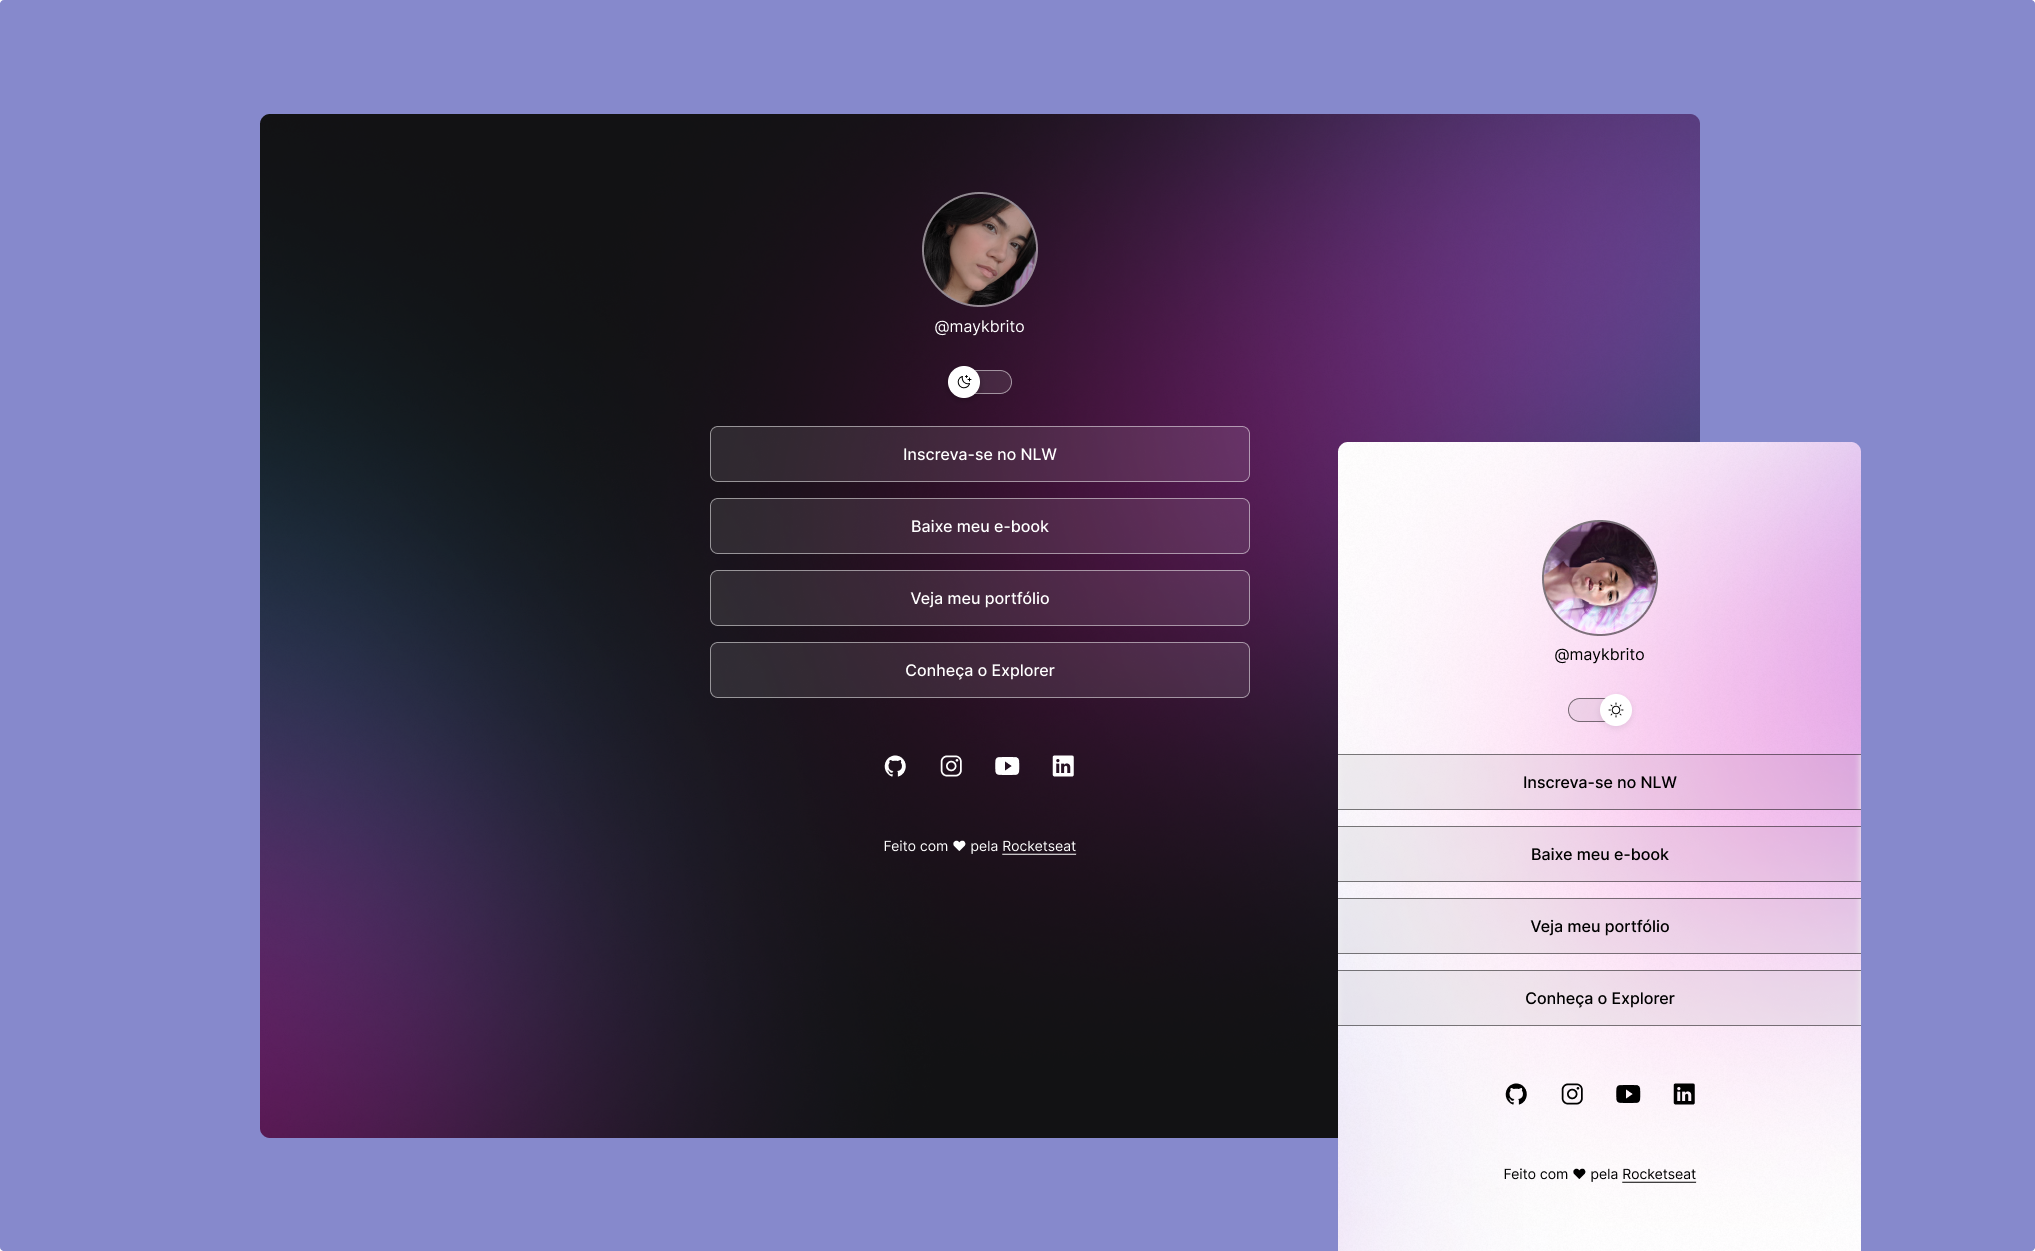
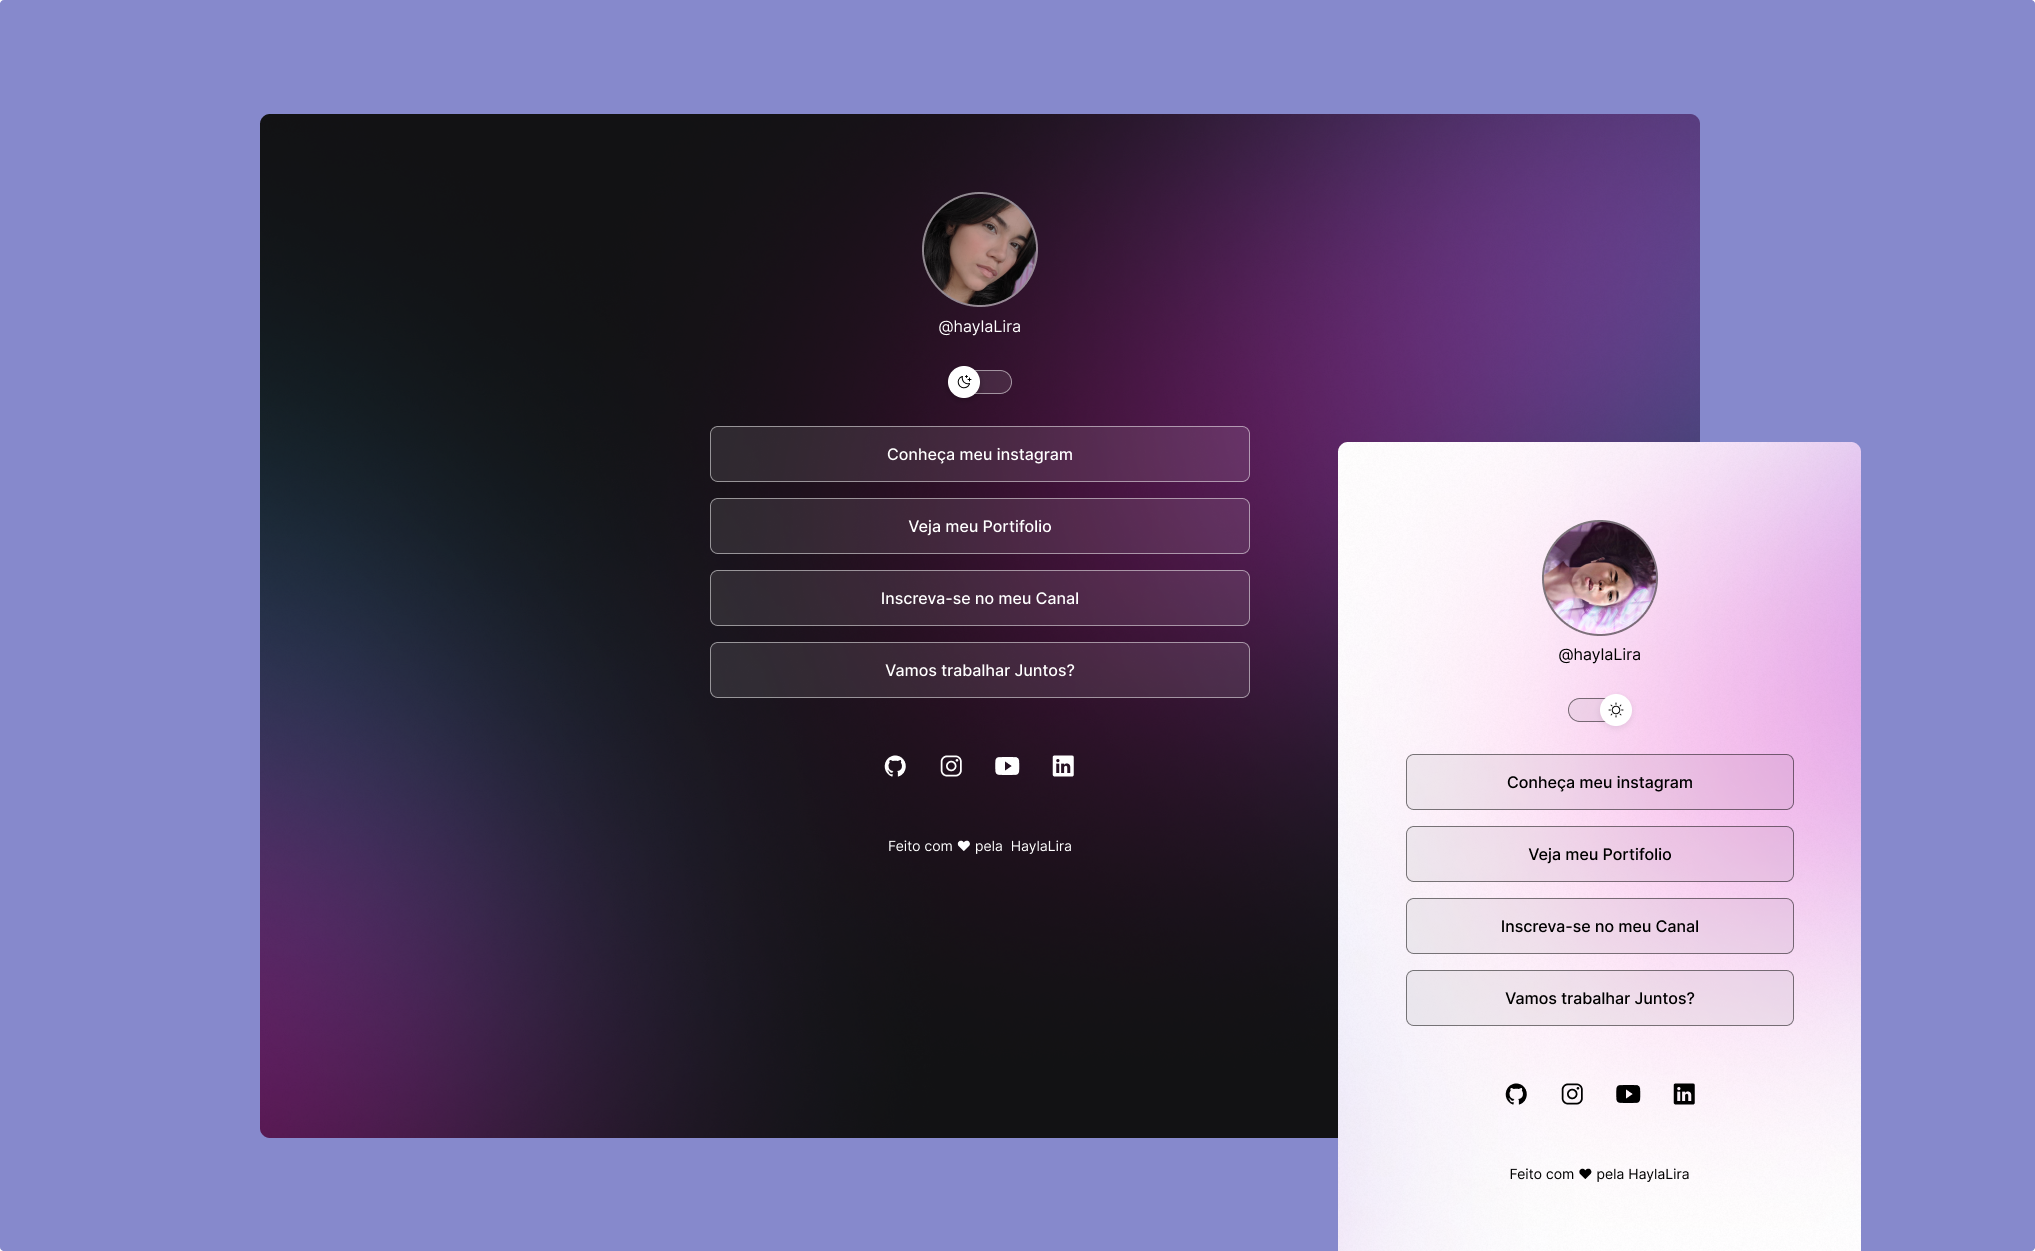
alteração da img

diff --git a/index.html b/index.html
@@ -30,7 +30,7 @@
           <a href="https://instagram.com/haylalira"> Conheça meu instagram </a>
         </li>
         <li>
-          <a href="#"> veja meu Portifolio</a>
+          <a href="#"> Veja meu Portifolio</a>
         </li>
         <li>
           <a href="https://www.youtube.com/results?search_query=hayla+lira">
